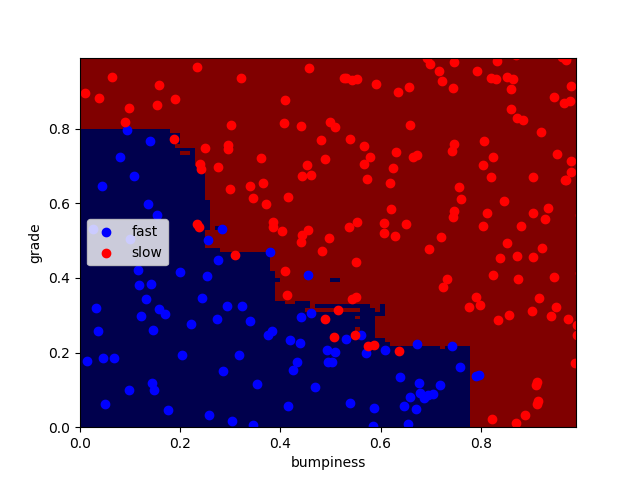
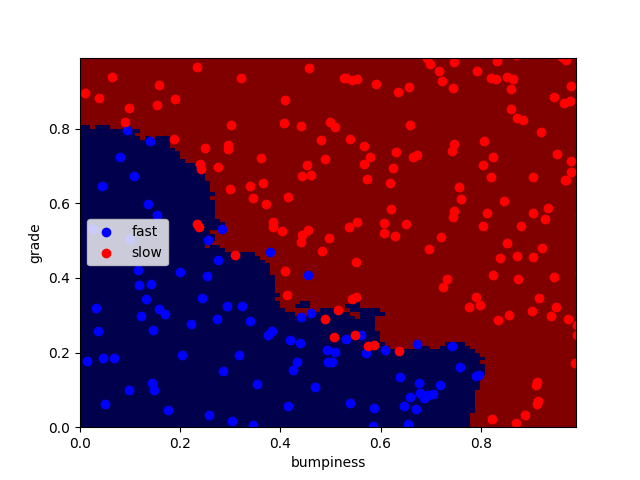
finished code your own

diff --git a/choose_your_own/your_algorithm.py b/choose_your_own/your_algorithm.py
@@ -3,7 +3,7 @@
 import matplotlib.pyplot as plt
 from prep_terrain_data import makeTerrainData
 from class_vis import prettyPicture
-from sklearn.ensemble import RandomForestClassifier
+from sklearn.neighbors import KNeighborsClassifier
 
 features_train, labels_train, features_test, labels_test = makeTerrainData()
 
@@ -16,7 +16,7 @@ bumpy_fast = [features_train[ii][1] for ii in range(0, len(features_train)) if l
 grade_slow = [features_train[ii][0] for ii in range(0, len(features_train)) if labels_train[ii]==1]
 bumpy_slow = [features_train[ii][1] for ii in range(0, len(features_train)) if labels_train[ii]==1]
 
-
+'''
 #### initial visualization
 plt.xlim(0.0, 1.0)
 plt.ylim(0.0, 1.0)
@@ -27,16 +27,16 @@ plt.xlabel("bumpiness")
 plt.ylabel("grade")
 plt.show()
 ################################################################################
-
+'''
 
 ### your code here!  name your classifier object clf if you want the 
 ### visualization code (prettyPicture) to show you the decision boundary
-clf = RandomForestClassifier(min_samples_split=50)
+clf = KNeighborsClassifier(n_neighbors=10,weights='distance',algorithm='brute')
 clf.fit(features_train, labels_train)
 print(clf.score(features_test,labels_test))
-
 
 try:
     prettyPicture(clf, features_test, labels_test)
 except NameError:
+    print('Something bad happened...')
     pass

diff --git a/choose_your_own/class_vis.py b/choose_your_own/class_vis.py
@@ -34,6 +34,7 @@ def prettyPicture(clf, X_test, y_test):
     plt.ylabel("grade")
 
     plt.savefig("test.png")
+    plt.show()
 
 import base64
 import json
@@ -47,4 +48,3 @@ def output_image(name, format, bytes):
     data['format'] = format
     data['bytes'] = base64.encodestring(bytes)
     print(image_start+json.dumps(data)+image_end)
-                                    
